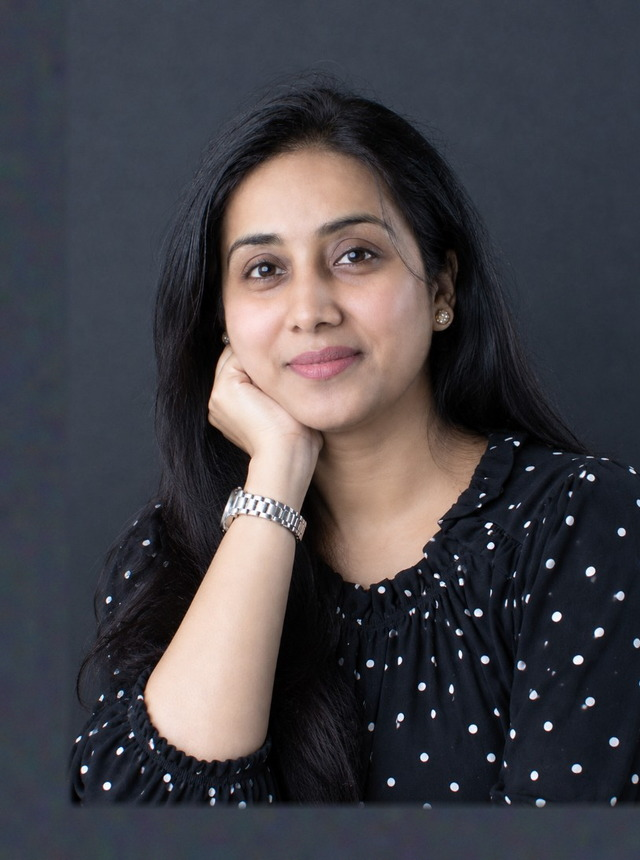
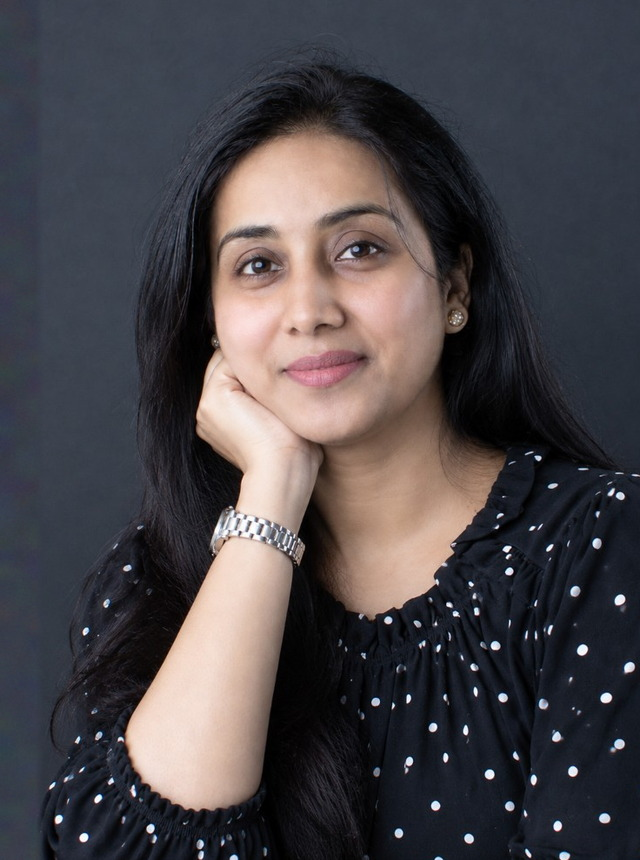
Enlarge Priya Nair DP full-frame toward faceH ~0.35 (desk150).
Nudge larger than desk149 mid framing; bump JPEG ?v=4 and app.js cache to desk150.

diff --git a/js/app.js b/js/app.js
@@ -814,7 +814,7 @@ const MENTORS = [
   { name: "Ananya Rao", role: "Long-term investor", tag: "Portfolio", img: "/img/instructors/ananya-rao.jpg?v=2" },
   { name: "Kabir Joshi", role: "Index options", tag: "Bank Nifty", img: "/img/instructors/kabir-joshi.jpg?v=10" },
   { name: "Rohan Desai", role: "Fund researcher", tag: "Mutual funds", img: "/img/instructors/rohan-desai.jpg?v=13" },
-  { name: "Priya Nair", role: "Asset allocation", tag: "SIP lab", img: "/img/instructors/priya-nair.jpg?v=3" },
+  { name: "Priya Nair", role: "Asset allocation", tag: "SIP lab", img: "/img/instructors/priya-nair.jpg?v=4" },
   { name: "Meera Iyer", role: "Options coach", tag: "Defined risk", img: "/img/instructors/meera-iyer.jpg?v=1" }
 ];
 
@@ -4935,6 +4935,7 @@ function traderIcon(kind) {
 /* cache-bust desk147: Priya Nair DP from user photo ref (site 640x860 + flutter 864x1152) /img/instructors/priya-nair.jpg?v=1 */
 /* cache-bust desk148: Priya Nair DP zoom-out half-body Neha-scale (site 640x860 + flutter 864x1152) /img/instructors/priya-nair.jpg?v=2 */
 /* cache-bust desk149: Priya Nair DP mid framing faceH~0.31 (site 640x860 + flutter 864x1152) /img/instructors/priya-nair.jpg?v=3 */
+/* cache-bust desk150: Priya Nair DP larger full frame faceH~0.35 (site 640x860 + flutter 864x1152) /img/instructors/priya-nair.jpg?v=4 */
 function traderCardHTML(m, i, opts = {}) {
   const title = String(m.role || m.tag || "Mentor").trim();
   const cloneAttrs = opts.clone ? ' tabindex="-1" aria-hidden="true"' : "";

diff --git a/account.html b/account.html
@@ -17,7 +17,7 @@
   <div id="site-header"></div>
   <main id="accountRoot" class="ld-page"></main>
   <div id="site-footer"></div>
-  <script src="/js/app.js?v=desk149" defer></script>
+  <script src="/js/app.js?v=desk150" defer></script>
   <script src="/js/lms.js?v=cert2" defer></script>
 </body>
 </html>

diff --git a/learning.html b/learning.html
@@ -17,7 +17,7 @@
   <div id="site-header"></div>
   <main id="myLearning" class="ld-page"></main>
   <div id="site-footer"></div>
-  <script src="/js/app.js?v=desk149" defer></script>
+  <script src="/js/app.js?v=desk150" defer></script>
   <script src="/js/lms.js?v=cert2" defer></script>
 </body>
 </html>

diff --git a/course.html b/course.html
@@ -22,7 +22,7 @@
     </div>
   </main>
   <div id="site-footer"></div>
-  <script src="/js/app.js?v=desk149" defer></script>
+  <script src="/js/app.js?v=desk150" defer></script>
   <script src="/js/lms.js?v=cert2" defer></script>
   <script src="/js/drm.js?v=desk29" defer></script>
 </body>

diff --git a/contact.html b/contact.html
@@ -48,7 +48,7 @@
   </main>
   <div id="site-footer"></div>
   <script src="/js/help-faqs.js?v=faq1" defer></script>
-  <script src="/js/app.js?v=desk149" defer></script>
+  <script src="/js/app.js?v=desk150" defer></script>
   <script src="/js/lms.js" defer></script>
 </body>
 </html>

diff --git a/certificate.html b/certificate.html
@@ -19,7 +19,7 @@
     <div id="certRoot"></div>
   </main>
   <div id="site-footer"></div>
-  <script src="/js/app.js?v=desk149" defer></script>
+  <script src="/js/app.js?v=desk150" defer></script>
   <script src="/js/lms.js?v=cert2" defer></script>
 </body>
 </html>

diff --git a/control.html b/control.html
@@ -253,7 +253,7 @@
         loading = true;
         busy(true);
         var files = [
-          "/js/app.js?v=desk149",
+          "/js/app.js?v=desk150",
           "/js/lms.js",
           "/js/admin-core.js?v=desk8",
           "/js/admin.js?v=drm5",

diff --git a/index.html b/index.html
@@ -415,7 +415,7 @@
     </section>
   </main>
   <div id="site-footer"></div>
-  <script src="/js/app.js?v=desk149" defer></script>
+  <script src="/js/app.js?v=desk150" defer></script>
   <script src="/js/lms.js?v=cert2" defer></script>
 </body>
 </html>

diff --git a/live-room.html b/live-room.html
@@ -22,7 +22,7 @@
 </head>
 <body class="live-room-page">
   <div id="liveRoom"></div>
-  <script src="/js/app.js?v=desk149" defer></script>
+  <script src="/js/app.js?v=desk150" defer></script>
   <script src="/js/lms.js" defer></script>
 </body>
 </html>

diff --git a/nifty-options.html b/nifty-options.html
@@ -44,7 +44,7 @@
     </section>
   </main>
   <div id="site-footer"></div>
-  <script src="/js/app.js?v=desk149" defer></script>
+  <script src="/js/app.js?v=desk150" defer></script>
   <script src="/js/lms.js?v=cert2" defer></script>
 </body>
 </html>

diff --git a/option-trading-course.html b/option-trading-course.html
@@ -44,7 +44,7 @@
     </section>
   </main>
   <div id="site-footer"></div>
-  <script src="/js/app.js?v=desk149" defer></script>
+  <script src="/js/app.js?v=desk150" defer></script>
   <script src="/js/lms.js?v=cert2" defer></script>
 </body>
 </html>

diff --git a/share-market-course-in-hindi.html b/share-market-course-in-hindi.html
@@ -42,7 +42,7 @@
     </section>
   </main>
   <div id="site-footer"></div>
-  <script src="/js/app.js?v=desk149" defer></script>
+  <script src="/js/app.js?v=desk150" defer></script>
   <script src="/js/lms.js?v=cert2" defer></script>
 </body>
 </html>
